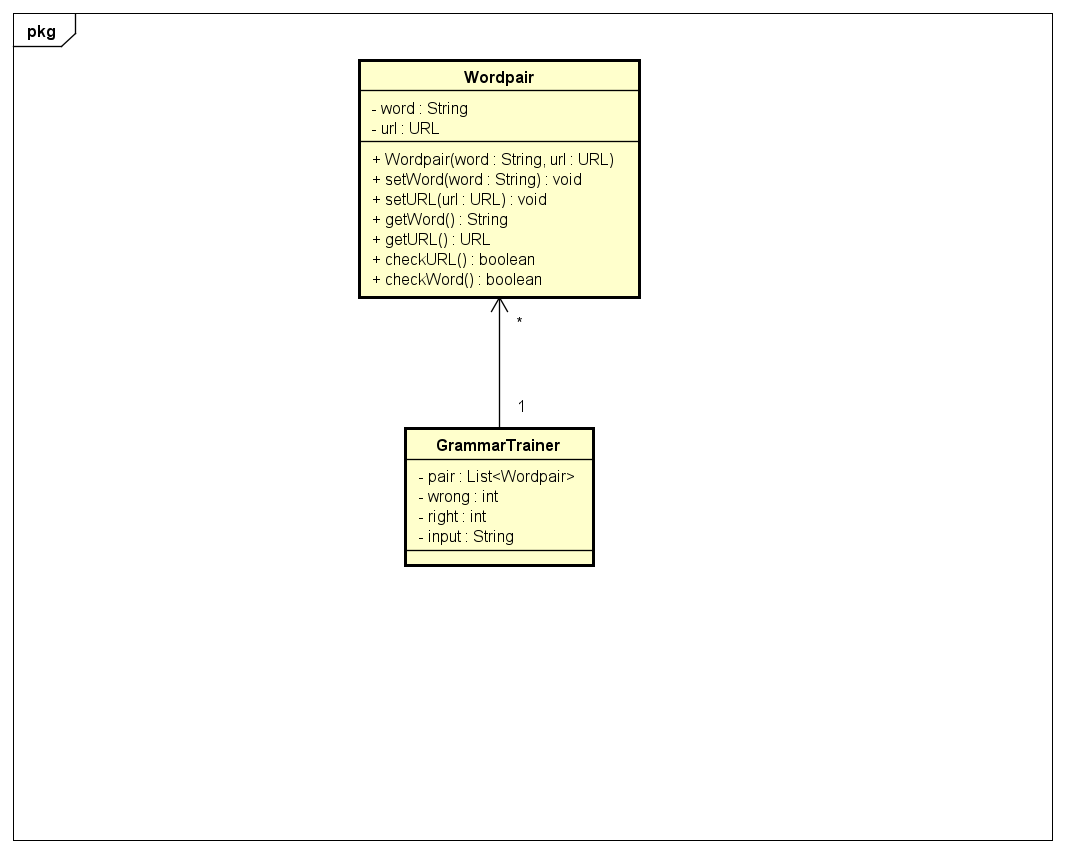
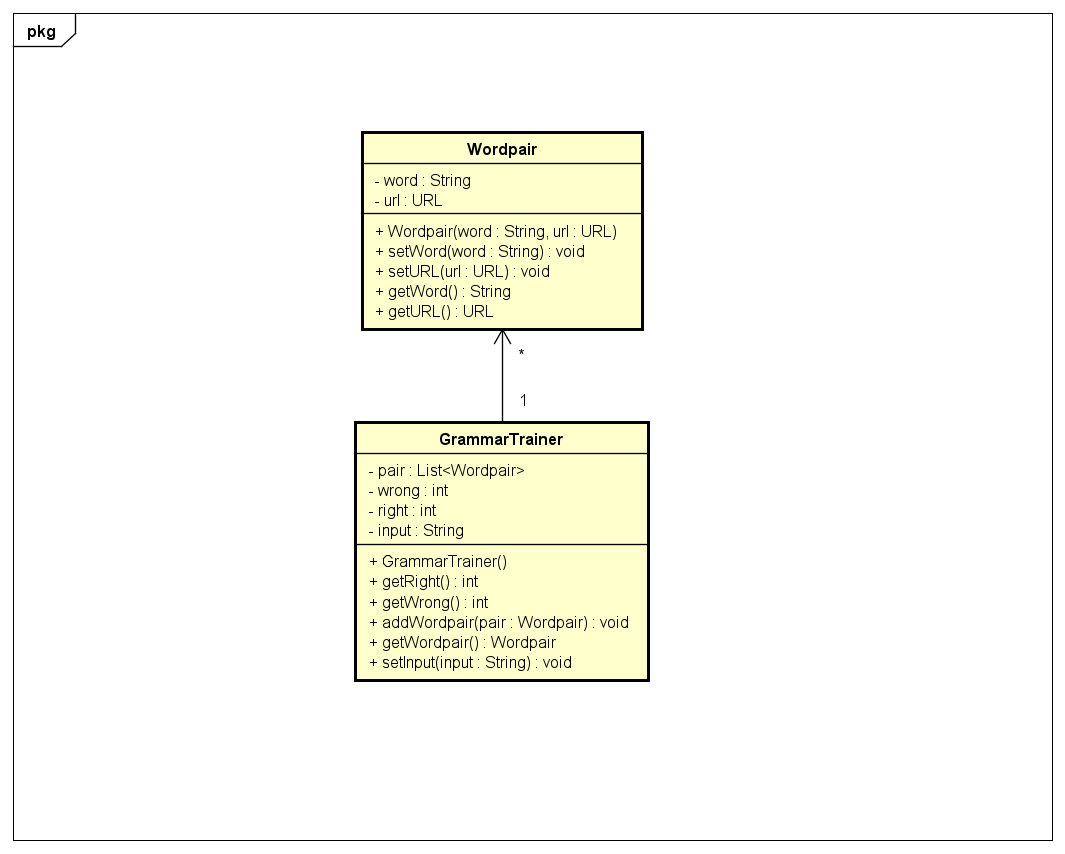
controller

Changed region(s): [[0.3099, 0.0609, 0.6197, 0.822]]

diff --git a/src/main/java/Model/GrammarTrainer.java b/src/main/java/Model/GrammarTrainer.java
@@ -1,5 +1,6 @@
 package Model;
 
+import java.util.LinkedList;
 import java.util.List;
 
 public class GrammarTrainer {
@@ -12,6 +13,38 @@ public class GrammarTrainer {
 
 	private String input;
 
-	private Wordpair[] wordpair;
+	public GrammarTrainer() {
+		this.pair = new LinkedList<>();
+	}
+
+	public int getRight() {
+		return this.right;
+	}
+
+	public int getWrong() {
+		return this.wrong;
+	}
+
+	public void addWordpair(Wordpair pair) {
+		if(pair!=null)	{
+			this.pair.add(pair);
+		} else {
+			throw new IllegalArgumentException("Wordpair is null");
+		}
+	}
+
+	public Wordpair getWordpair(int index) {
+		if(index <= pair.size()-1)	{
+			return this.pair.get(index);
+		} else {
+			throw new IllegalArgumentException("Index doesn't exist");
+		}
+	}
+
+	public void setInput(String input) {
+		if(!input.equals(null))	{
+			this.input = input;
+		}
+	}
 
 }

diff --git a/src/main/java/Model/Wordpair.java b/src/main/java/Model/Wordpair.java
@@ -9,31 +9,26 @@ public class Wordpair {
 	private URL url;
 
 	public Wordpair(String word, URL url) {
-
+		this.url = url;
+		this.word = word;
 	}
 
 	public void setWord(String word) {
-
+		if(!word.equals(null) && !word.equals("")){
+			this.word = word;
+		}
 	}
 
 	public void setURL(URL url) {
-
+		this.url = url;
 	}
 
 	public String getWord() {
-		return null;
+		return this.word;
 	}
 
 	public URL getURL() {
-		return null;
-	}
-
-	public boolean checkURL() {
-		return false;
-	}
-
-	public boolean checkWord() {
-		return false;
+		return this.url;
 	}
 
 }
